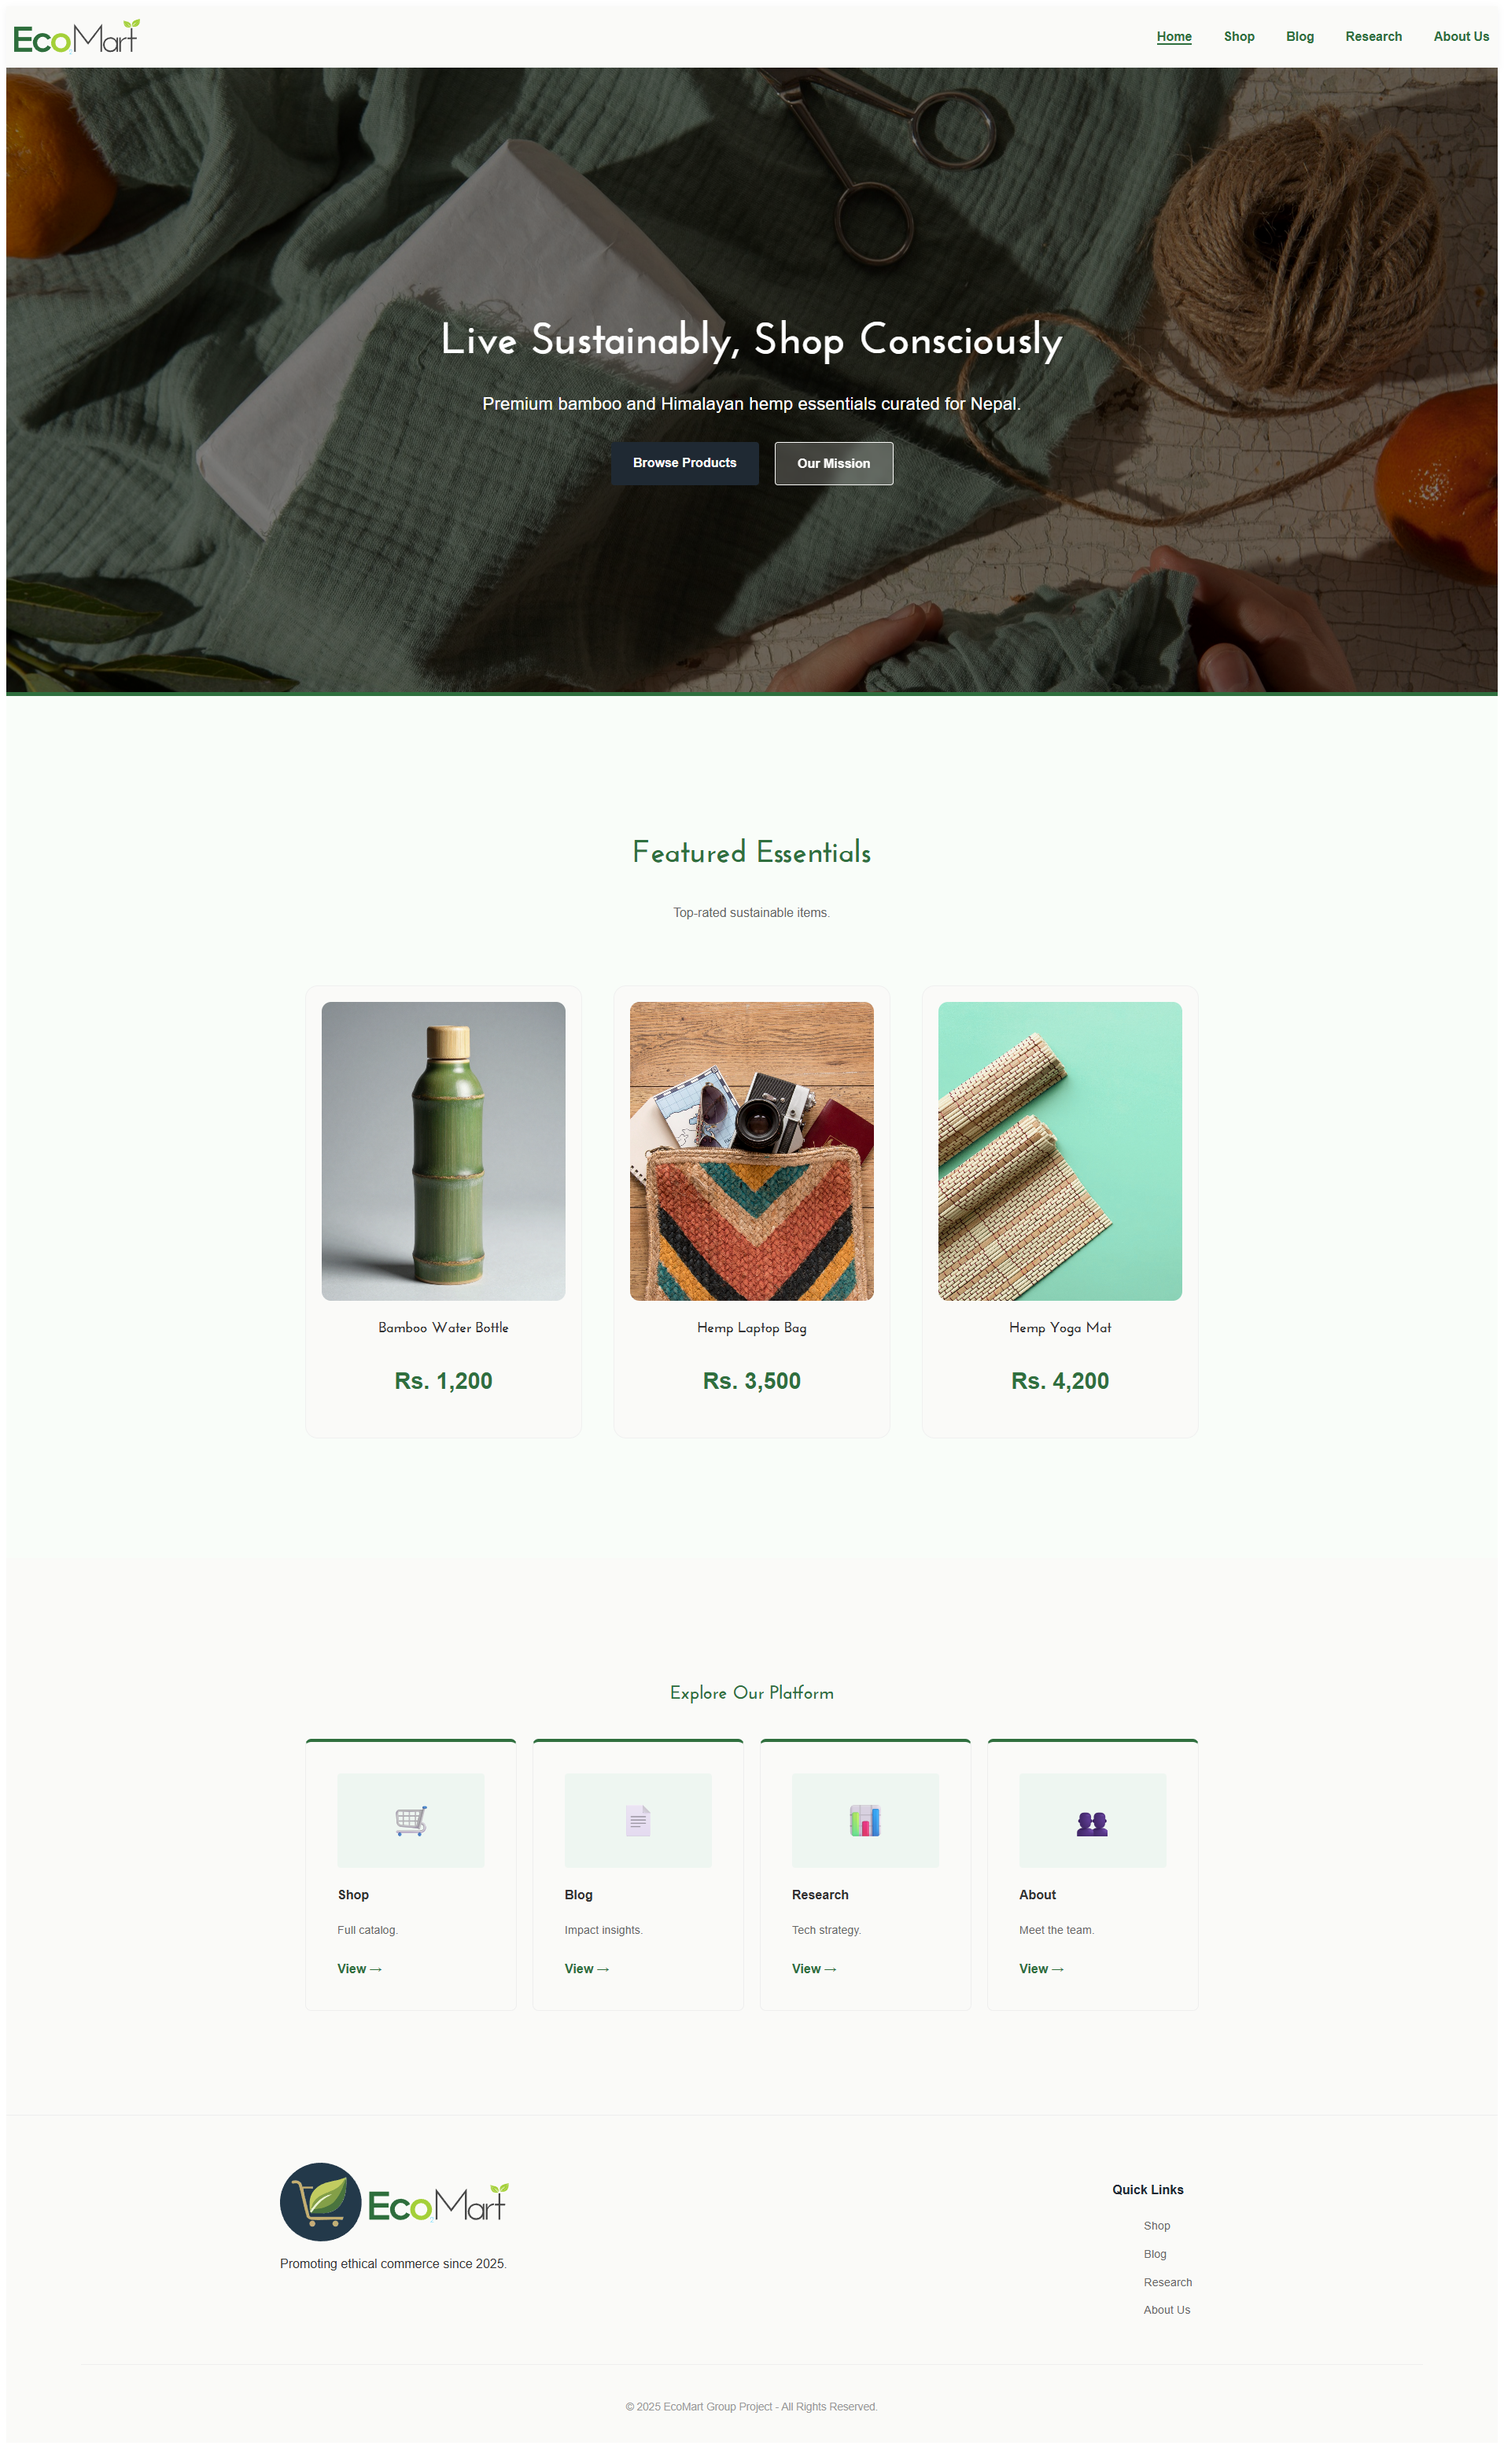
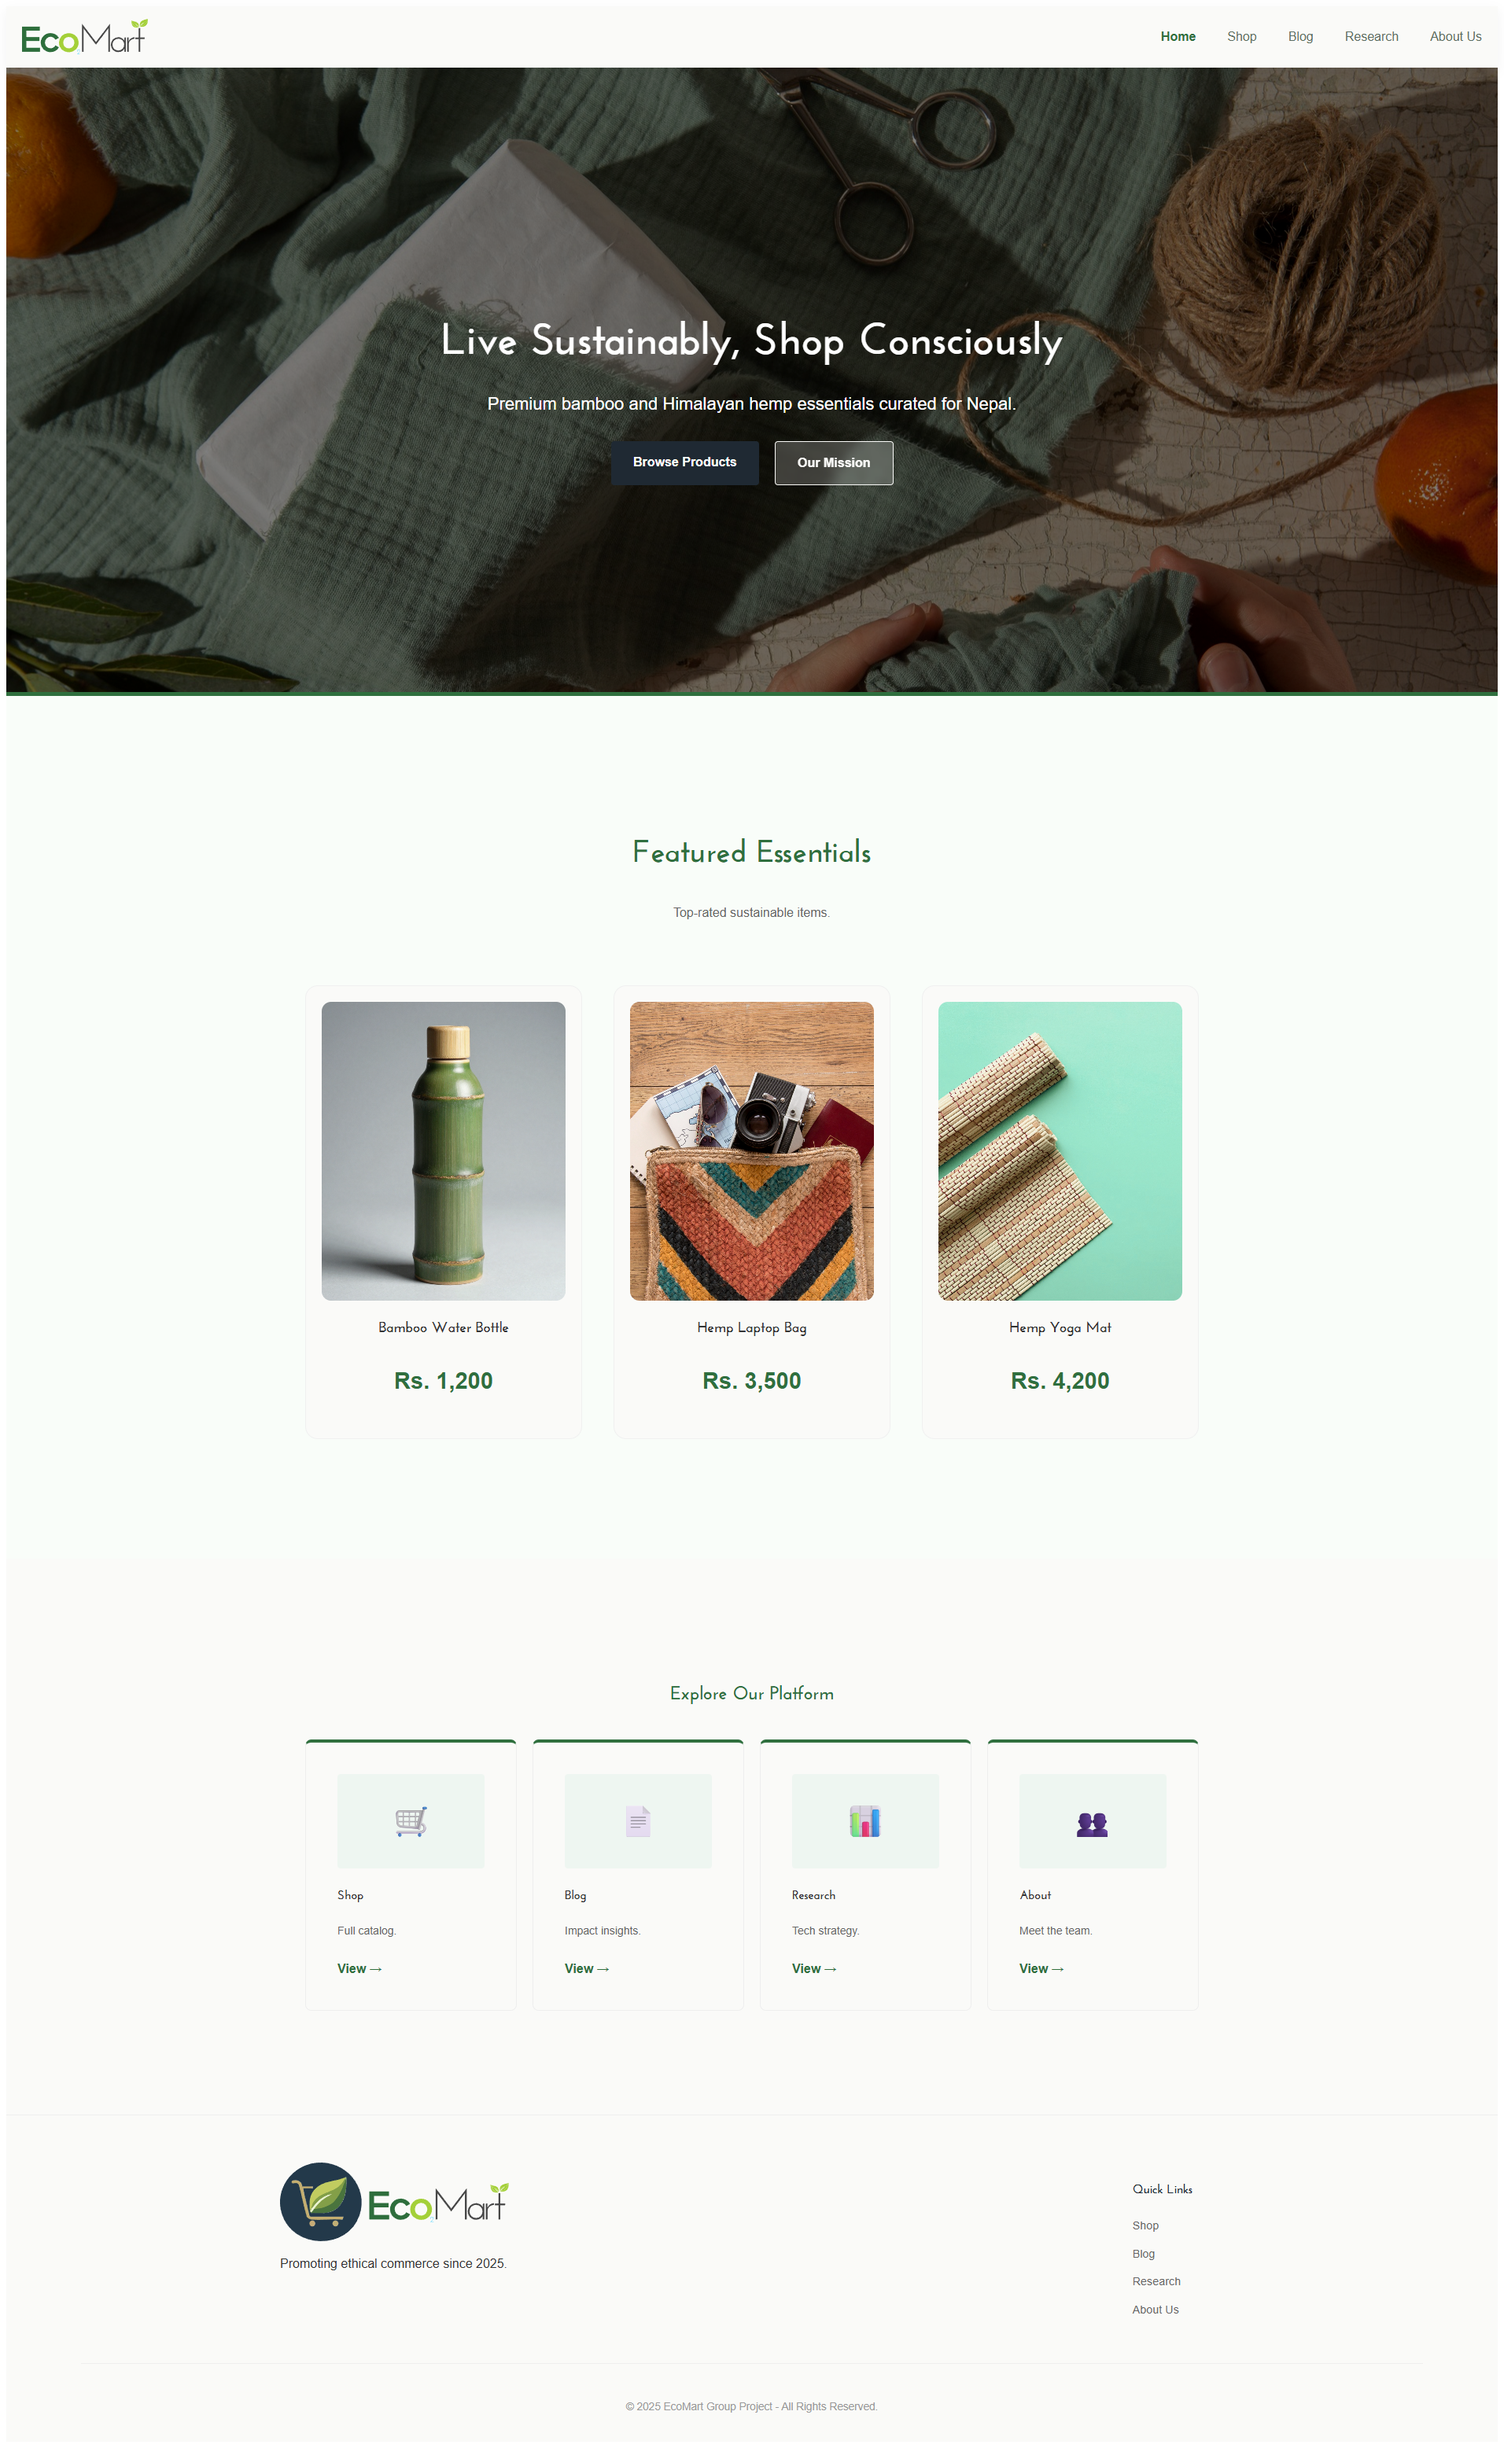
small update

diff --git a/Pages/products.html b/Pages/products.html
@@ -38,6 +38,16 @@
             transition: transform 0.3s ease;
         }
 
+        .productCardLarge:hover {
+            /* Makes the growth animation smooth over half a second */
+            transition: 0.3s;
+            /* Slightly enlarges the card */
+            transform: scale(1.02);
+            /* Adds a soft green glow shadow for depth */
+            box-shadow: 0 16px 32px #a1a1a1;
+        }
+
+
         /* Container that limits the height of product photos for a uniform look */
         .ProductImg {
             width: 100%;
@@ -64,7 +74,7 @@
         /* Styling for the crossed-out original price to show savings */
         .originalPrice {
             text-decoration: line-through;
-            color: #c40000;
+            color: red;
             font-size: 14px; /* Converted from 0.85rem */
             margin-right: 10px;
         }
@@ -84,6 +94,7 @@
                 <li><a href="blog.html">Blog</a></li>
                 <li><a href="research.html">Research</a></li>
                 <li><a href="about.html">About Us</a></li>
+                <li><a href="signUp.html">Sign In</a></li>
             </ul>
         </nav>
     </header>

diff --git a/Pages/signUp.html b/Pages/signUp.html
@@ -9,8 +9,7 @@
     <style>
         /* Sets the default page background and ensures the content fills the screen height */
         body { 
-            margin: 0; 
-            min-height: 100vh;
+            
             background-color: #EEF6F1; 
         }
 
@@ -101,6 +100,7 @@
             <li><a href="blog.html">Blog</a></li>
             <li><a href="research.html">Research</a></li>
             <li><a href="about.html">About Us</a></li>
+            <li><a href="signUp.html" class="active">Sign In</a></li>
         </ul>
     </nav>
 </header>

diff --git a/CSS/styles.css b/CSS/styles.css
@@ -38,6 +38,7 @@ body {
     font-family: "DM Sans", sans-serif;
     color: #333;
     line-height: 1.6;
+    margin: 0;
 }
 
 h1, h2, h3, h4 {
@@ -49,7 +50,7 @@ header {
     display: flex;
     justify-content: space-between;
     align-items: center;
-    padding: 10px 20px;
+    padding: 12px 48px;
     background: #FAFAF8;
     box-shadow: 0 5px 15px rgba(0,0,0,0.05);
     position: sticky;

diff --git a/index.html b/index.html
@@ -121,6 +121,7 @@
                 <li><a href="Pages/blog.html">Blog</a></li>
                 <li><a href="Pages/research.html">Research</a></li>
                 <li><a href="Pages/about.html">About Us</a></li>
+                <li><a href="Pages/signUp.html">Sign In</a></li>
             </ul>
         </nav>
     </header>

diff --git a/Pages/blog.html b/Pages/blog.html
@@ -103,6 +103,7 @@
                 <li><a href="blog.html" class="active">Blog</a></li>
                 <li><a href="research.html">Research</a></li>
                 <li><a href="about.html">About Us</a></li>
+                <li><a href="signUp.html">Sign In</a></li>
             </ul>
         </nav>
     </header>

diff --git a/Pages/about.html b/Pages/about.html
@@ -95,6 +95,7 @@
                 <li><a href="blog.html">Blog</a></li>
                 <li><a href="research.html">Research</a></li>
                 <li><a href="about.html" class="active">About Us</a></li>
+                <li><a href="signUp.html">Sign In</a></li>
             </ul>
         </nav>
     </header>

diff --git a/Pages/login.html b/Pages/login.html
@@ -92,6 +92,7 @@
             <li><a href="blog.html">Blog</a></li>
             <li><a href="research.html">Research</a></li>
             <li><a href="about.html">About Us</a></li>
+            <li><a href="signUp.html" class="active">Sign In</a></li>
         </ul>
     </nav>
 </header>

diff --git a/Pages/research.html b/Pages/research.html
@@ -78,6 +78,7 @@
             <li><a href="blog.html">Blog</a></li>
             <li><a href="research.html" class="active">Research</a></li>
             <li><a href="about.html">About Us</a></li>
+            <li><a href="signUp.html">Sign In</a></li>
         </ul>
     </nav>
 </header>
